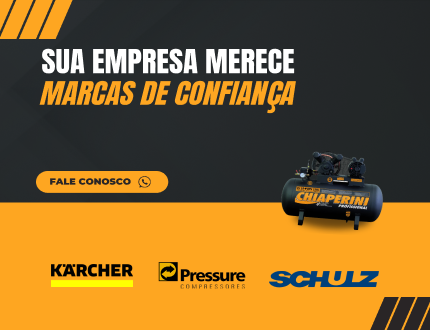
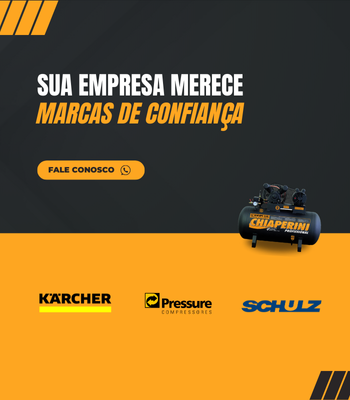
update

diff --git a/index.html b/index.html
@@ -58,13 +58,13 @@
 
             <div class="carousel-inner">
                 <div class="carousel-item active" data-bs-interval="4000">
-                    <img src="imagens/banner1.webp" alt="banner 1" class="d-none d-md-block w-100">
+                    <img src="imagens/banner1.webp" alt="banner 1" class="d-none d-md-block w-100" width="">
                     <img src="imagens/bannersmall1.webp" alt="banner 1" class="d-block d-md-none w-100">
                 </div>
 
                 <div class="carousel-item" data-bs-interval="4000">
                     <img src="imagens/banner2.webp" alt="banner 2" class="d-none d-md-block w-100">
-                    <img src="imagens/bannersmall3.webp" alt="banner 2" class="d-block d-md-none w-100">
+                    <img src="imagens/bannersmall2.webp" alt="banner 2" class="d-block d-md-none w-100">
                 </div>
 
                 <div class="carousel-item" data-bs-interval="4000">
@@ -128,7 +128,7 @@
         <section class="container hidden-top">
             <h1 class="title-sections" id="produtos">PRODUTOS DE QUALIDADE</h1>
             <div class="d-flex flex-wrap justify-content-center row m-auto">
-                <img src="imagens/produtos1.webp" alt="produto ferramenta" class="col-10 col-lg-4 p-1">
+                <img src="imagens/produtos1.webp" alt="produto ferramenta" class="col-10 col-lg-4 p-1" >
                 <img src="imagens/produtos2.webp" alt="produto mangueira de compressor" class="col-10 col-lg-4 p-1">
                 <img src="imagens/produtos3.webp" alt="produto mangueira hidraulica" class="col-10 col-lg-4 p-1">
                 <img src="imagens/produtos4.webp" alt="produto acessórios" class="col-10 col-lg-4 p-1">
@@ -210,7 +210,7 @@
                     </ul>
                 </div>
                 <div class="col-10 col-lg-6 py-md-4 container hidden-right">
-                    <img src="imagens/loja.webp" alt="Loja do Compressor" class="img-fluid">
+                    <img src="imagens/loja.webp" alt="Loja do Compressor" class="img-fluid" width="577" height="454">
                 </div>
             </div>
         </section>
